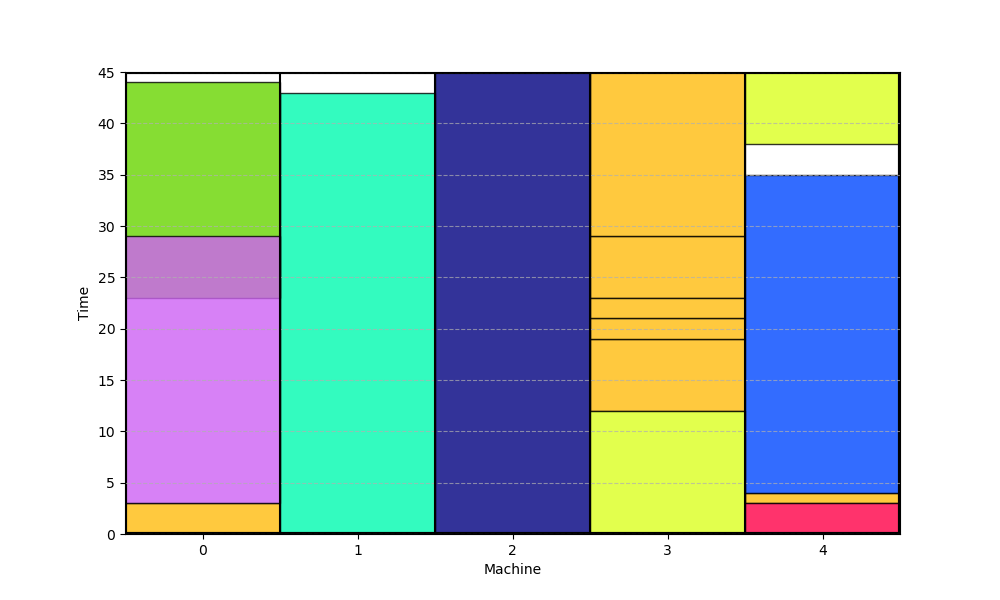
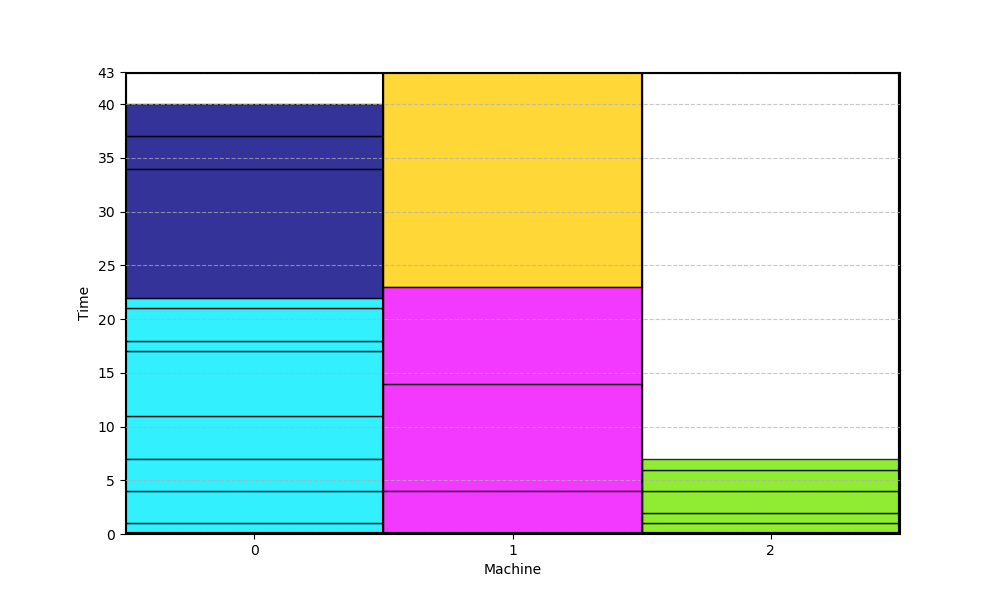
Gjort ändringar i testgeneratorn

diff --git a/utils/testgenerator.py b/utils/testgenerator.py
@@ -7,8 +7,18 @@ Created on Fri Feb 27 13:02:04 2026
 import random
 import numpy as np
 
+def truncated_poisson(average, upper_bound):
+    while True:
+       # Slumpa ett tal från Poisson med medelvärde lam
+       value = np.random.poisson(average)
+       
+       # Kontrollera om det är inom intervallet [1, can_add]
+       if 1 <= value <= upper_bound:
+           return value
+
 def generate_class_processing_times(m,c,T): 
     target_sum = m*T
+    average_time = m*T/c
     class_processing_times = [1]*c
     remaining = target_sum - c
     
@@ -22,15 +32,20 @@ def generate_class_processing_times(m,c,T):
              if current_val < T:
                  # Lägg till så mycket som möjligt, men max upp till T
                  can_add = min(remaining, T - current_val)
+                 if can_add < average_time: 
+                     class_processing_times[i] += can_add
+                     remaining -=can_add
                  # Vi tar en slumpmässig del av det vi 'kan' lägga till för bättre varians
-                 add = random.randint(1, can_add)
-                 class_processing_times[i] += add
-                 remaining -= add
+                 else: 
+                     add = truncated_poisson(average_time, can_add)
+                     class_processing_times[i] += add
+                     remaining -= add
                  
     return class_processing_times
 
 def generate_number_of_jobs(n,c, class_processing_times): 
     target_sum = n
+    average_num = n/c
     num_jobs_in_each_class = [1]*c
     remaining = target_sum - c
     
@@ -44,9 +59,13 @@ def generate_number_of_jobs(n,c, class_processing_times):
             upper_bound = class_processing_times[i]
             if current_val < upper_bound:
                 can_add = min(remaining, upper_bound-current_val)
-                add = random.randint(1,can_add)
-                num_jobs_in_each_class[i] += add
-                remaining -= add
+                if can_add < average_num: 
+                    num_jobs_in_each_class[i]+= can_add
+                    remaining -=can_add
+                else: 
+                    add = truncated_poisson(average_num, upper_bound)
+                    num_jobs_in_each_class[i] += add
+                    remaining -= add
                 
     return num_jobs_in_each_class
 
@@ -78,8 +97,8 @@ def generate_number_of_jobs(n,c, class_processing_times):
 m = 3
 c = 5
 n = 20
+T = 30
 
-T = random.randint(np.ceil(m/n), 100) #kan ändra övre gränsen sen
 jobs= []
   
 class_processing_times = generate_class_processing_times(m, c, T)
